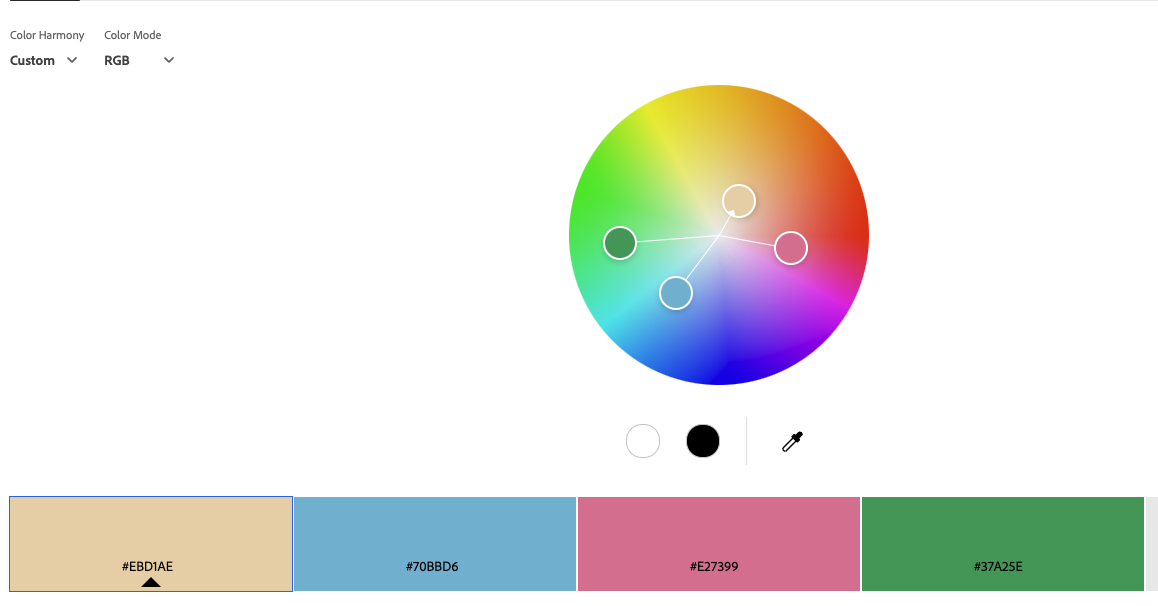
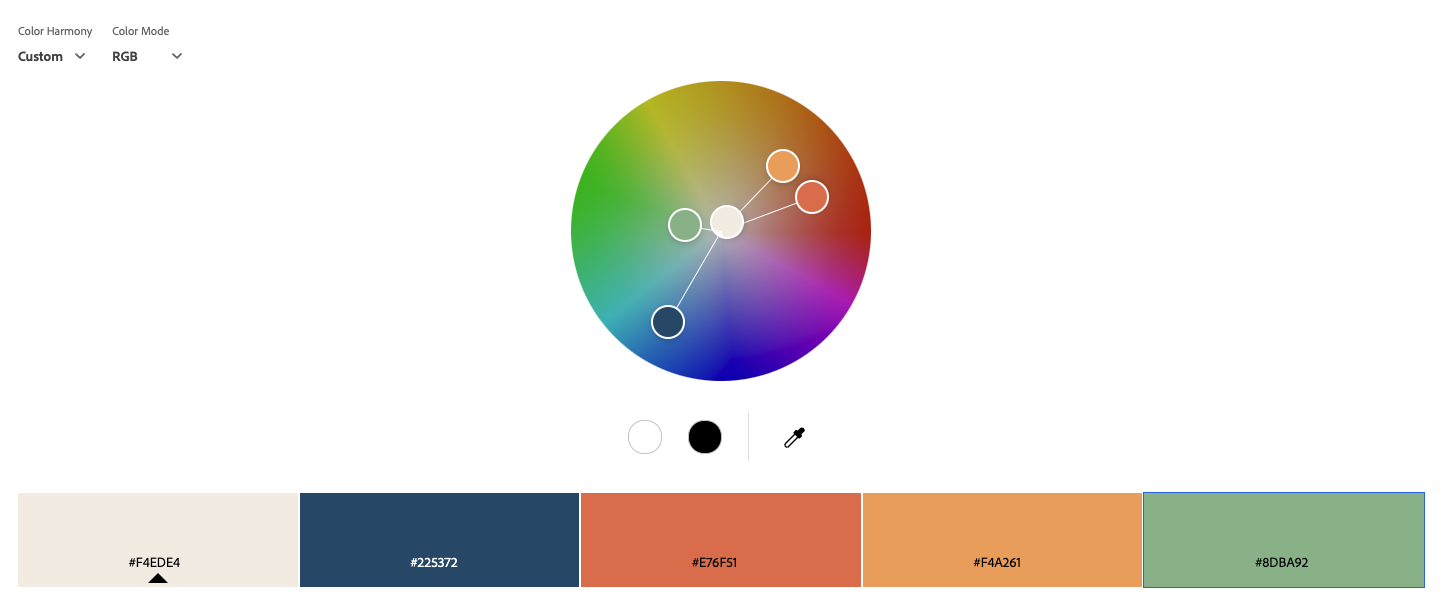
Update README: new colour scheme + sprint 2 info

diff --git a/README.md b/README.md
@@ -224,7 +224,7 @@ Followers/Following View:
 ![Sign Up Wireframe](documentation/signup.png)
 
 ### Colour Scheme
-I wanted to pick a fun and energetic palette to reflect the creative nature of this application. I chose a peachy-beige colour for the majority of the visuals, with some accent colours to provide pops of interest throughout. 
+I wanted to pick a fun and energetic palette to reflect the creative nature of this application. My original choices looked great next to each other in theory but when I came to implementing them, they didn't quite work. So after some finessing, I ended up with the following colour scheme: 
 
 ![Colour Scheme Image](documentation/colours.png)
 
@@ -302,7 +302,7 @@ To ensure the front end of my program was accessible I used Lighthouse and recor
 
 **Colour Contrast** 
 
-I checked black text against my colour palette prior to development and found that all colours apart from the green had sufficient contrast to meet the highest contrast requirements. This informed my design choices, so that I never used the green as a background to text.
+
 
 ## 6. Bugs
 
@@ -380,14 +380,16 @@ My user stories can be seen in full in the associated GitHub Project on my repo.
 
 - Sprint Planning: this involved taking the highest priority issues and assigning them to the first sprint. The highest priority story involves wiring up the front and back ends so may take up the whole sprint. This was the only one marked as must have. The next two were should haves and the final one a could have. This gave me a breakdown of 25% for must, 50% for should and 25% for could. 
 - Sprint Retrospective: 
-    - Achievements: 
-    - Progress: 
-    - Challenges: 
-    - Action Next Sprint: 
+    - Achievements: Completing the thin slice and connecting the placeholder front-end and back-end. 
+    - Progress: A stable, deployed base on which to develop the rest of the project.  
+    - Challenges: There was less time than anticipated to work on my project and the thin slice proved more difficult to complete too. The Cross-Origin Resource Sharing (CORS) element needed specific configuration that took a while to figure out for example. 
+    - Action Next Sprint: The goal for next sprint is to get the basic page structure created with dummy data, to provide a basis from which to develop the back-end further in future sprints. 
 
 ### Sprint Two: 16/09 to 22/09
 
-- Sprint Planning: 
+![Sprint Two Screenshot](documentation/sprint2.png)
+
+- Sprint Planning: Creating the basic home page and the user details page are must haves this sprint, then the remaining stories from Epic 4: Browsing Pieces are distributed between should haves and could haves. The breakdown for this sprint is 40% must have, 40% should have and 20% could have. 
 - Sprint Retrospective: 
     - Achievements: 
     - Progress: 
